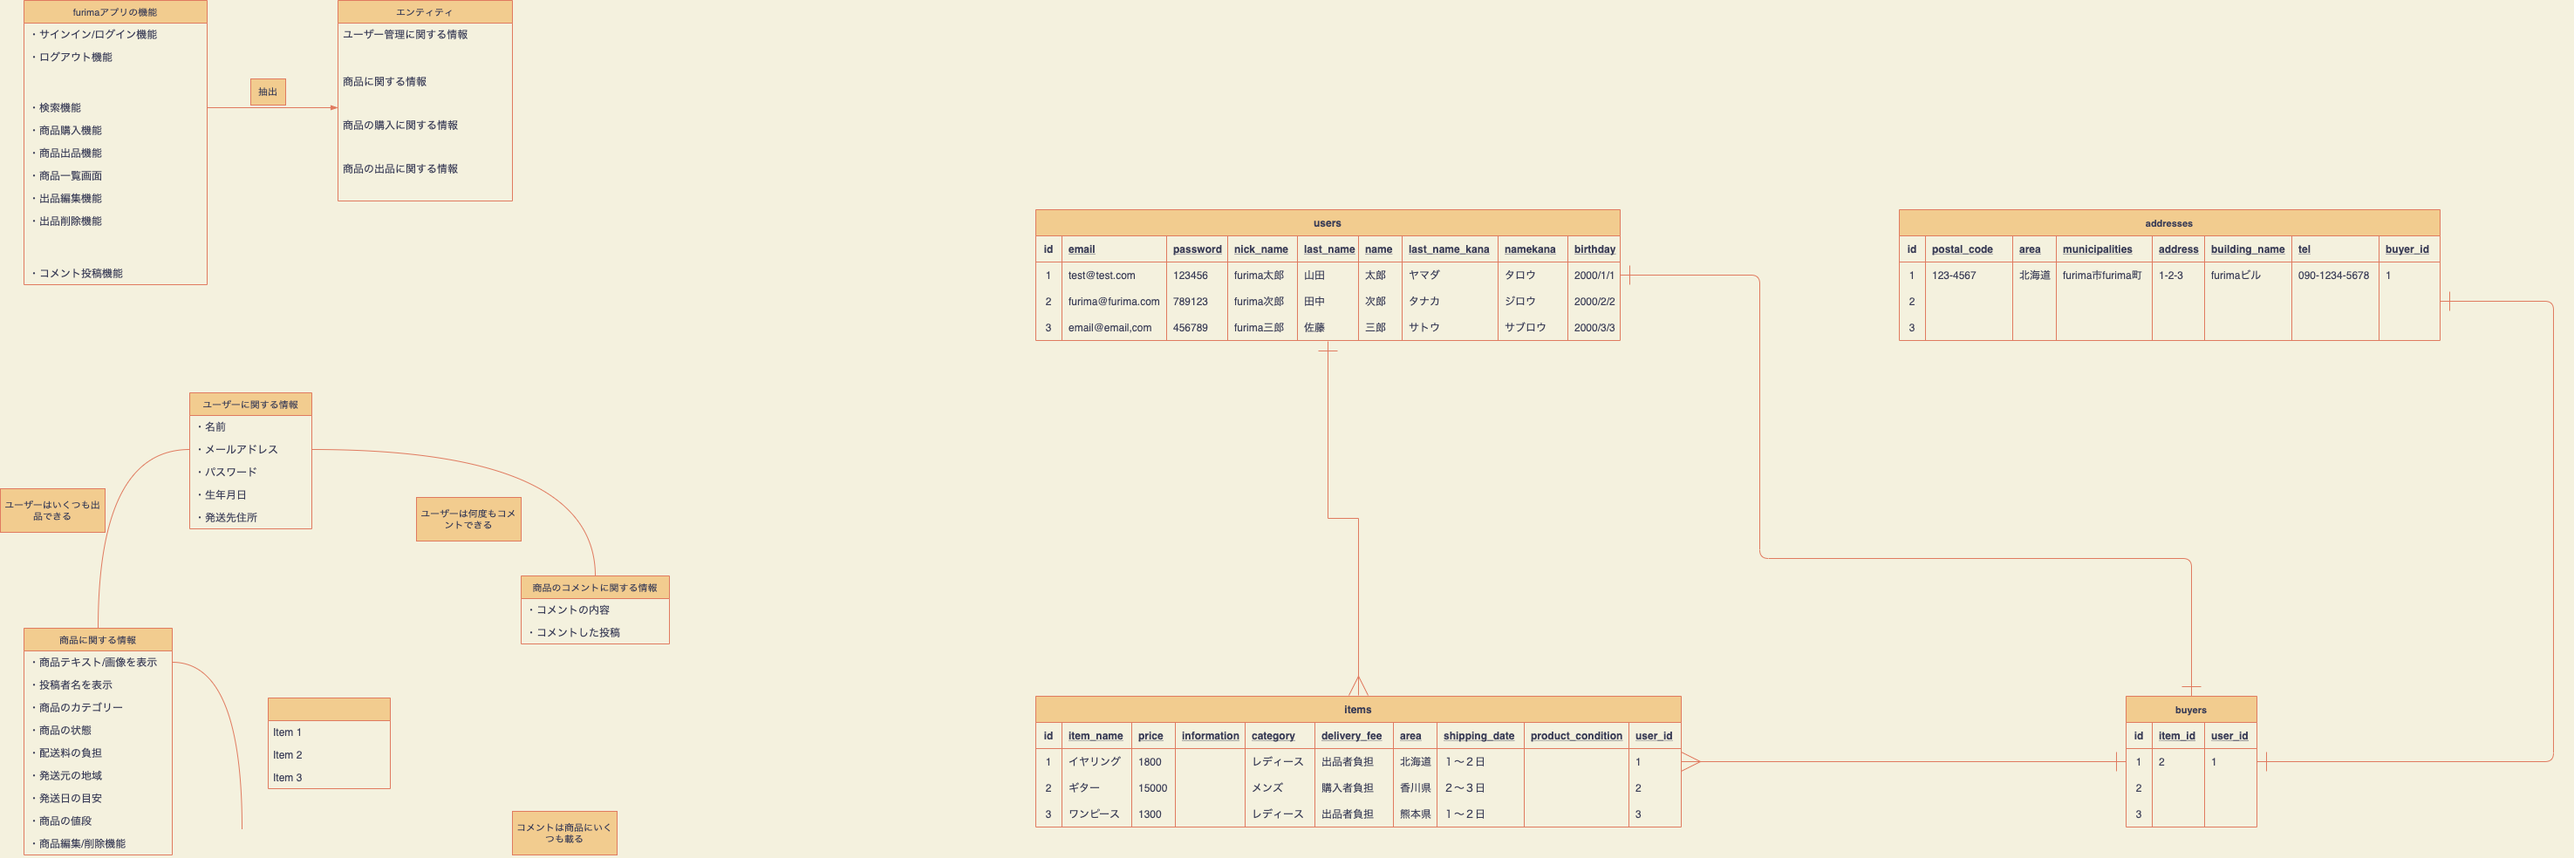
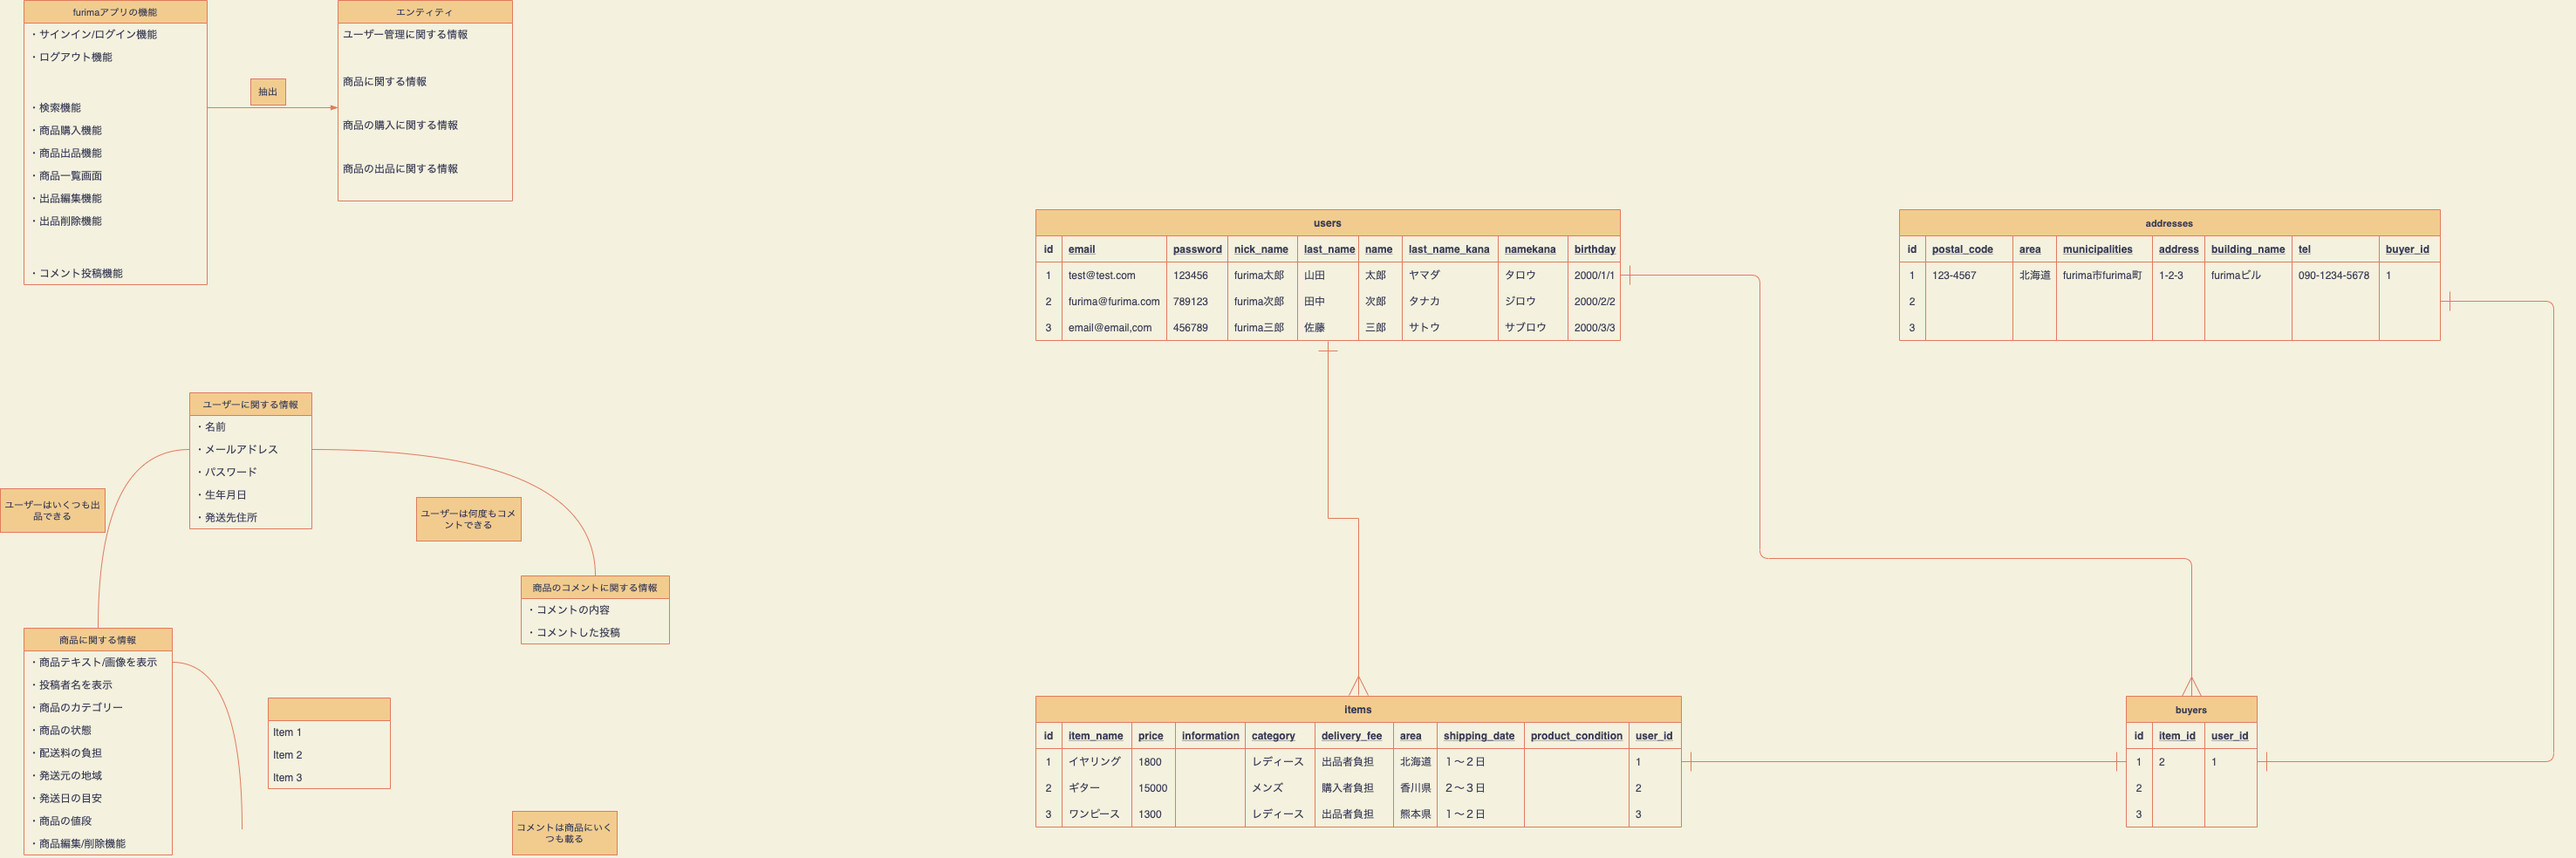
テーブル設計の是正3

diff --git a/README.md b/README.md
@@ -41,7 +41,7 @@ Things you may want to cover:
 ### Association
 
 - has_many :items
-- belongs_to :buyers
+- has_many :buyers
 
 
 ## items テーブル
@@ -61,7 +61,7 @@ Things you may want to cover:
 ### Association
 
 - belongs_to :users
-- belongs_to :buyers
+- has_one :buyers
 
 
 ## buyers テーブル
@@ -73,9 +73,9 @@ Things you may want to cover:
 
 ### Association
 
-- belongs_to :users
-- belongs_to :addresses
-- has_many :items
+- belongs_to :user
+- belongs_to :item
+- has_one :addresses
 
 
 ## addresses テーブル
@@ -92,4 +92,4 @@ Things you may want to cover:
 
 ### Association
 
-- belongs_to :buyers
+- belongs_to :buyer
